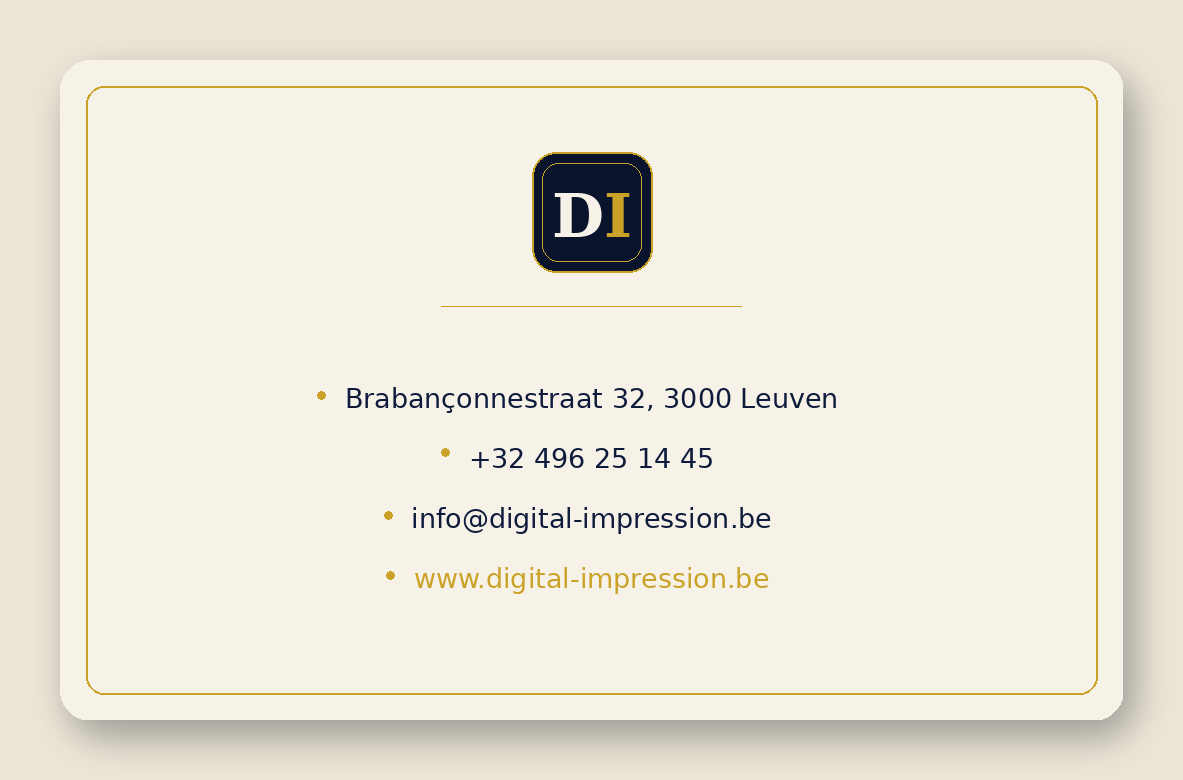
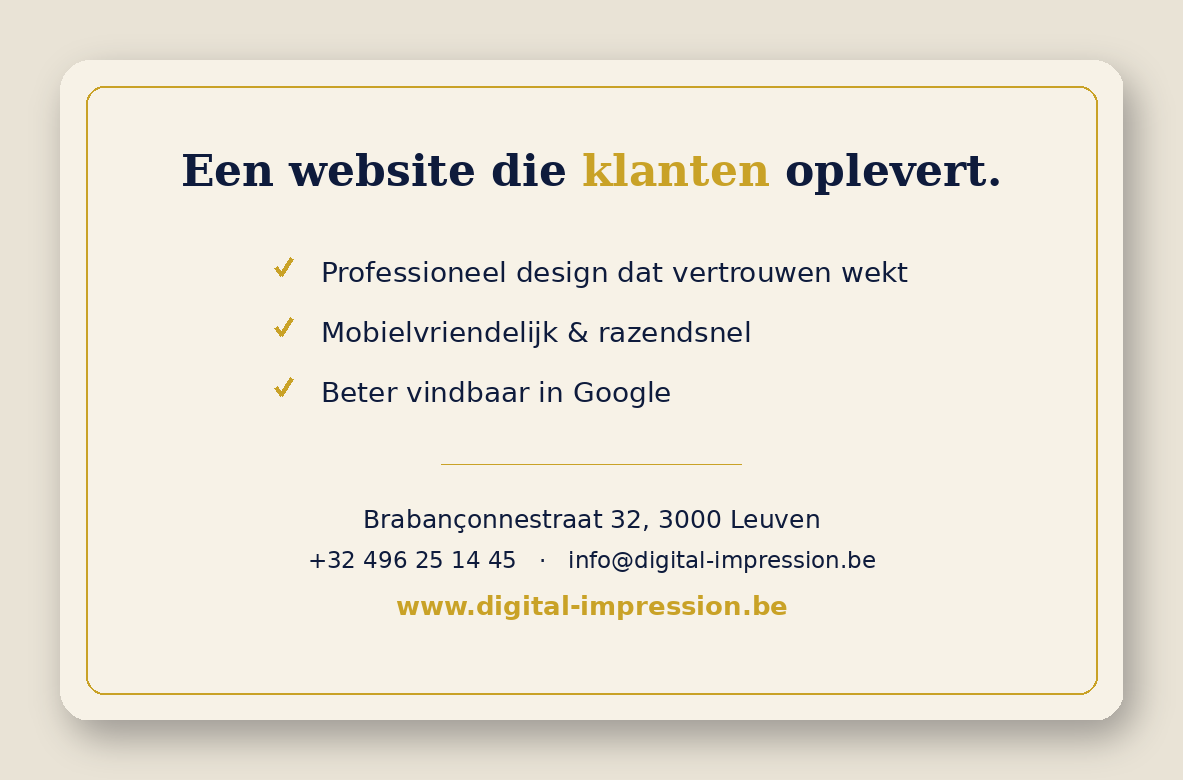
Business card v2: navy front centered wordmark (no monogram); cream back with USP hook
Front: centered 'Digital Impression' + PREMIUM WEBDESIGN, monogram removed.
Back: value hook 'Een website die klanten oplevert' + 3 USP checks + contact.
Updated PNG proofs, print-ready SVGs and showcase.

https://claude.ai/code/session_01YXe8XTm3tZjtntKEbp2tdW

diff --git a/business-card.html b/business-card.html
@@ -42,11 +42,8 @@
         <svg viewBox="0 0 91 61" role="img" aria-label="Voorzijde">
           <rect width="91" height="61" fill="#0E1B3C"/>
           <rect x="5" y="5" width="81" height="51" rx="2.4" fill="none" stroke="#C9A227" stroke-width="0.3"/>
-          <rect x="38.4" y="11" width="14.2" height="14.2" rx="3.1" fill="#0A1530" stroke="#C9A227" stroke-width="0.38"/>
-          <rect x="39.7" y="12.3" width="11.6" height="11.6" rx="2.2" fill="none" stroke="#C9A227" stroke-width="0.18"/>
-          <text x="45.5" y="18.1" text-anchor="middle" dominant-baseline="central" class="serif" font-size="7.8" font-weight="600" letter-spacing="-0.35"><tspan fill="#F7F2E7">D</tspan><tspan fill="#C9A227">I</tspan></text>
-          <text x="45.5" y="37.2" text-anchor="middle" class="serif" font-size="8.2" font-weight="600"><tspan fill="#F7F2E7">Digital </tspan><tspan fill="#C9A227">Impression</tspan></text>
-          <text x="46" y="43.6" text-anchor="middle" class="sans" font-size="2.5" font-weight="500" letter-spacing="0.95" fill="#C9A227">PREMIUM WEBDESIGN</text>
+          <text x="45.5" y="30" text-anchor="middle" class="serif" font-size="9" font-weight="600"><tspan fill="#F7F2E7">Digital </tspan><tspan fill="#C9A227">Impression</tspan></text>
+          <text x="46" y="37" text-anchor="middle" class="sans" font-size="2.6" font-weight="500" letter-spacing="0.95" fill="#C9A227">PREMIUM WEBDESIGN</text>
         </svg>
       </div>
       <p class="cap">Voorzijde</p>
@@ -58,14 +55,20 @@
         <svg viewBox="0 0 91 61" role="img" aria-label="Achterzijde">
           <rect width="91" height="61" fill="#F7F2E7"/>
           <rect x="5" y="5" width="81" height="51" rx="2.4" fill="none" stroke="#C9A227" stroke-width="0.3"/>
-          <rect x="39.5" y="10.5" width="12" height="12" rx="2.7" fill="#0E1B3C" stroke="#C9A227" stroke-width="0.34"/>
-          <text x="45.5" y="16.6" text-anchor="middle" dominant-baseline="central" class="serif" font-size="6.6" font-weight="600" letter-spacing="-0.3"><tspan fill="#F7F2E7">D</tspan><tspan fill="#C9A227">I</tspan></text>
-          <line x1="34" y1="26" x2="57" y2="26" stroke="#C9A227" stroke-width="0.2"/>
-          <g class="sans" font-size="2.9" font-weight="500" text-anchor="middle">
-            <text x="45.5" y="33.5" fill="#0E1B3C">Brabançonnestraat 32, 3000 Leuven</text>
-            <text x="45.5" y="39.2" fill="#0E1B3C">+32 496 25 14 45</text>
-            <text x="45.5" y="44.9" fill="#0E1B3C">info@digital-impression.be</text>
-            <text x="45.5" y="50.6" fill="#C9A227" font-weight="600">www.digital-impression.be</text>
+          <text x="45.5" y="14.5" text-anchor="middle" class="serif" font-size="5.4" font-weight="600"><tspan fill="#0E1B3C">Een website die </tspan><tspan fill="#C9A227">klanten</tspan><tspan fill="#0E1B3C"> oplevert.</tspan></text>
+          <g class="sans" font-size="2.85" font-weight="500" fill="#0E1B3C">
+            <path d="M18 22.6 l0.9 1.1 l1.9 -2.3" fill="none" stroke="#C9A227" stroke-width="0.55" stroke-linecap="round" stroke-linejoin="round"/>
+            <text x="22" y="24.3">Professioneel design dat vertrouwen wekt</text>
+            <path d="M18 28.1 l0.9 1.1 l1.9 -2.3" fill="none" stroke="#C9A227" stroke-width="0.55" stroke-linecap="round" stroke-linejoin="round"/>
+            <text x="22" y="29.8">Mobielvriendelijk &amp; razendsnel</text>
+            <path d="M18 33.6 l0.9 1.1 l1.9 -2.3" fill="none" stroke="#C9A227" stroke-width="0.55" stroke-linecap="round" stroke-linejoin="round"/>
+            <text x="22" y="35.3">Beter vindbaar in Google</text>
+          </g>
+          <line x1="33" y1="40" x2="58" y2="40" stroke="#C9A227" stroke-width="0.2"/>
+          <g text-anchor="middle" class="sans">
+            <text x="45.5" y="45.5" font-size="2.6" fill="#0E1B3C">Brabançonnestraat 32, 3000 Leuven</text>
+            <text x="45.5" y="49.6" font-size="2.35" fill="#0E1B3C">+32 496 25 14 45   ·   info@digital-impression.be</text>
+            <text x="45.5" y="53.8" font-size="2.7" font-weight="600" fill="#C9A227">www.digital-impression.be</text>
           </g>
         </svg>
       </div>
